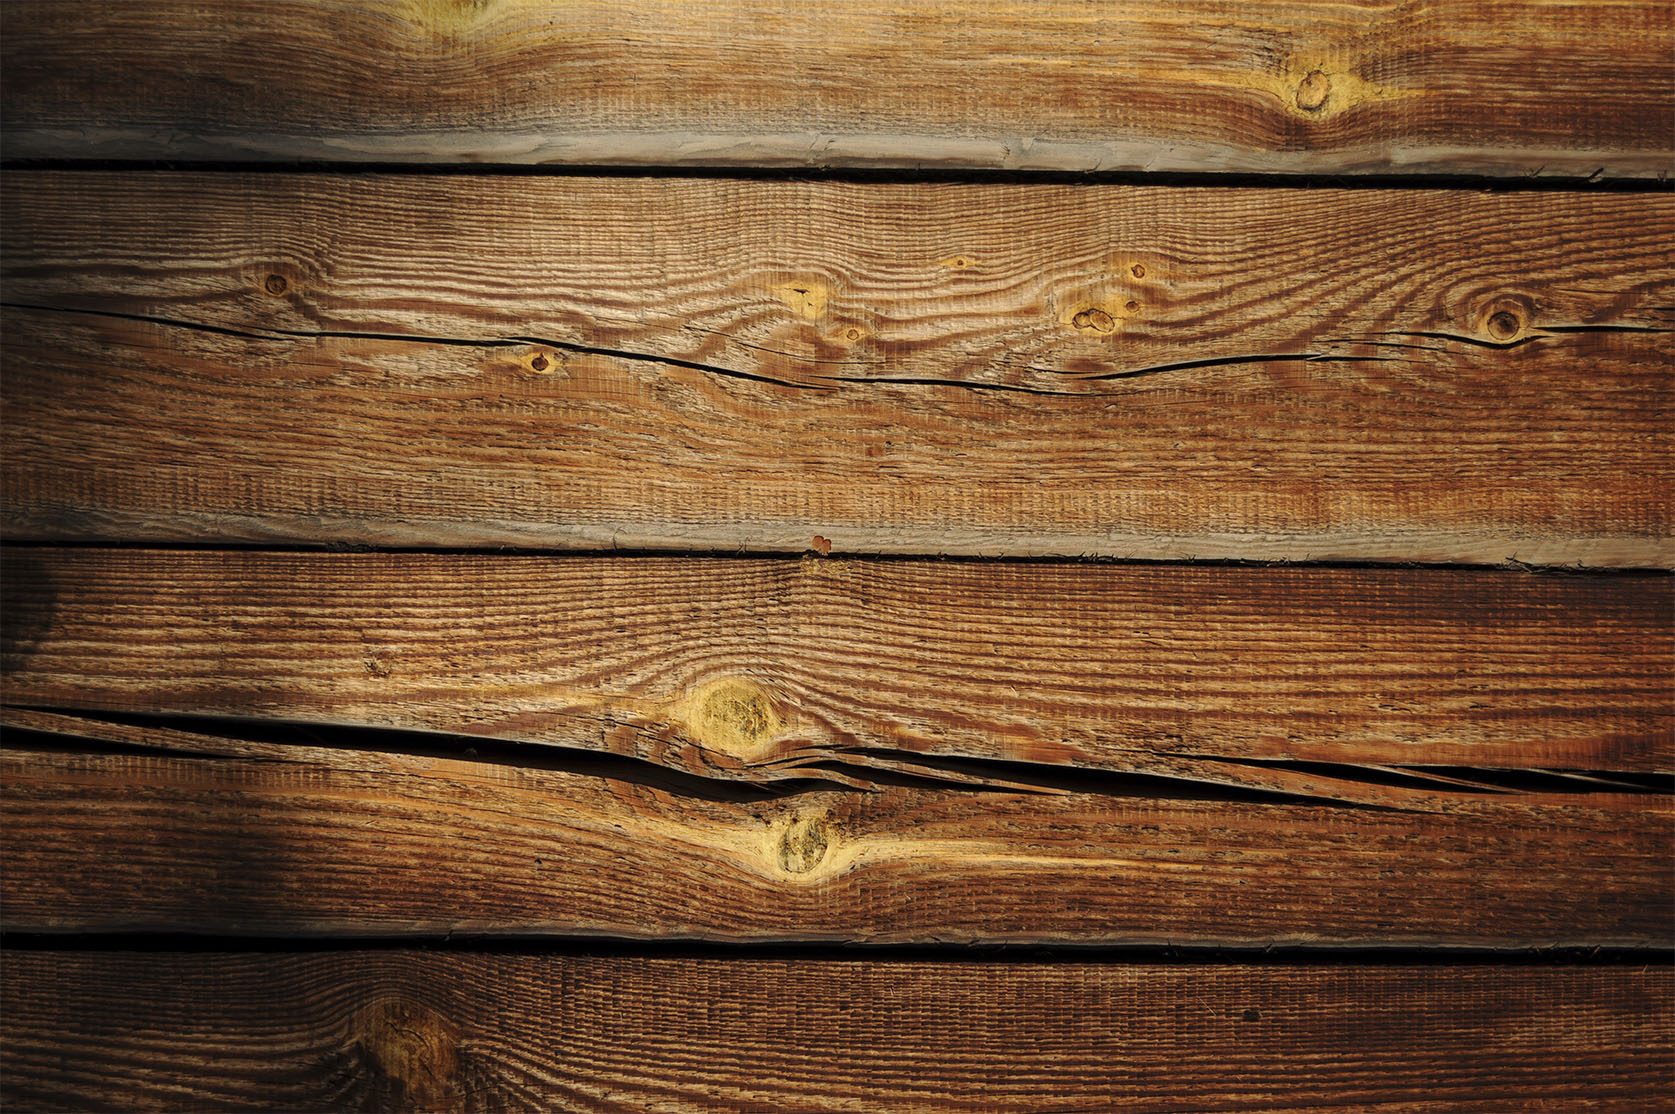
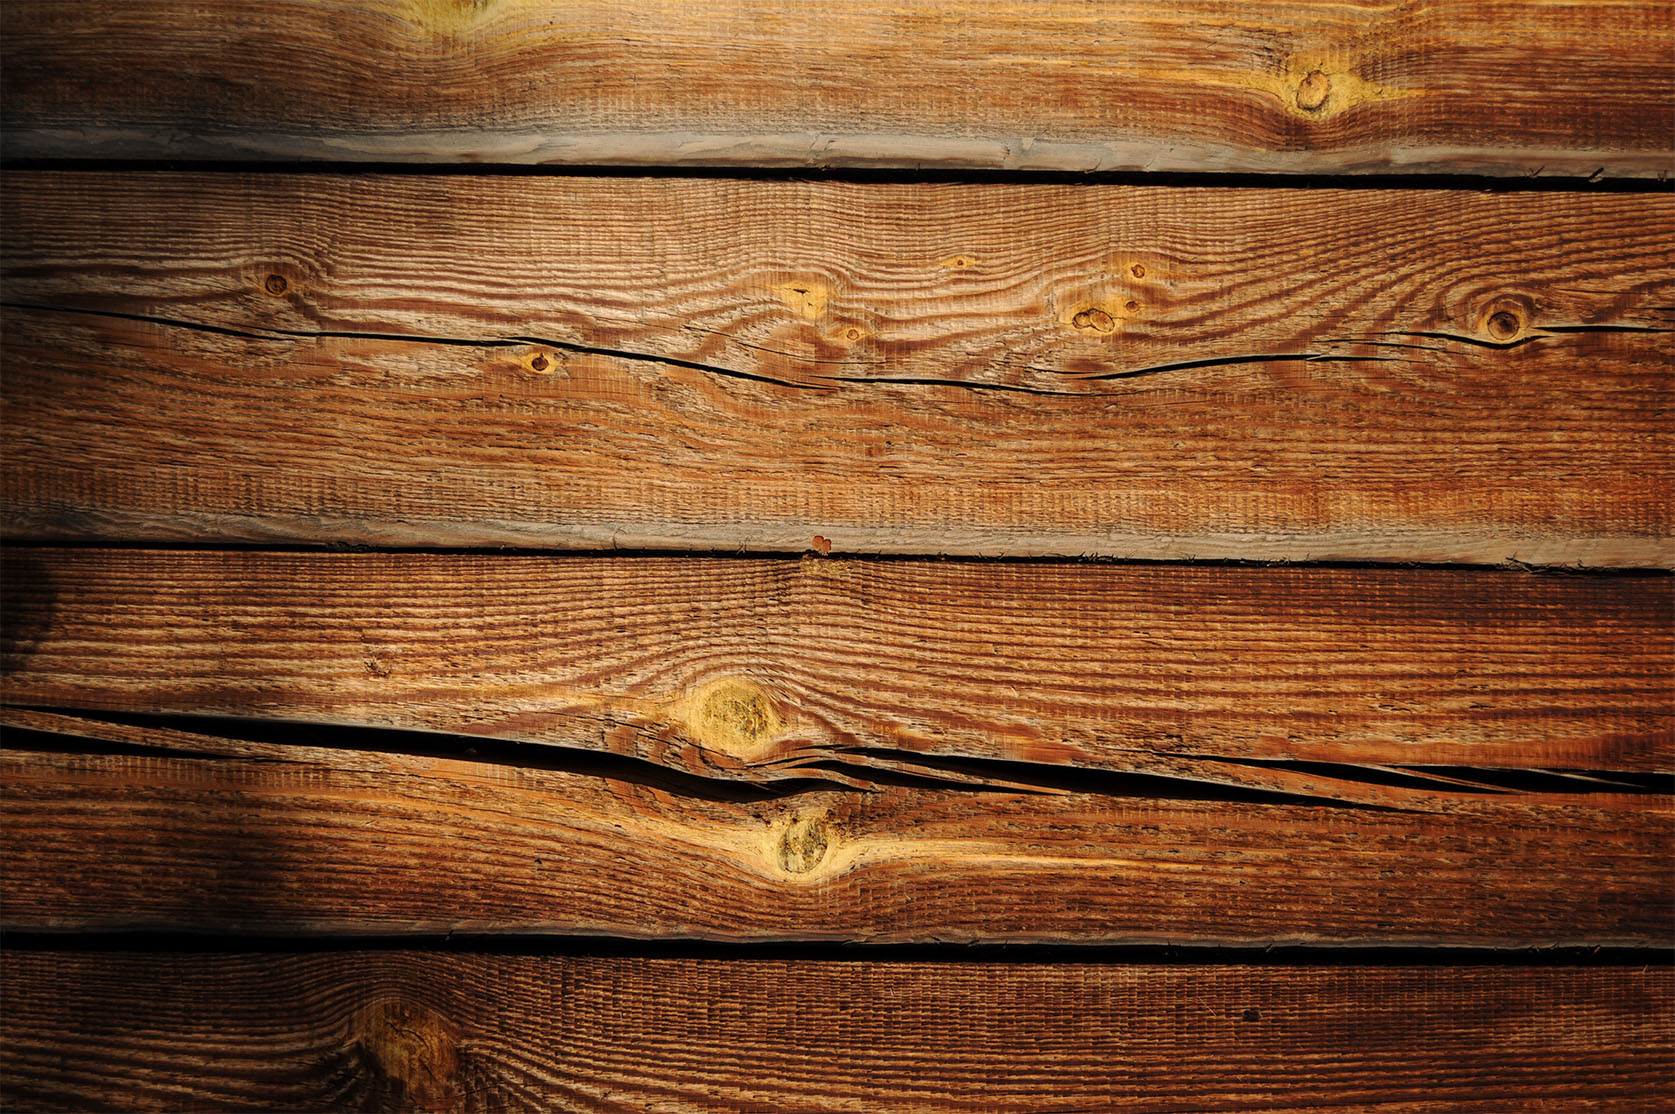
changed as in new maket

diff --git a/studio.html b/studio.html
@@ -6,21 +6,19 @@
 	<link rel="stylesheet" href="src/css/studio.css">
 </head>
 <body>
+	<div class="pliers"></div>
+	<div class="paper"></div>
 	<header>
-		<div class="container"></div>
-		<div class="wrapper">
-			<div class="circle">
-				<div class="dot1"></div>
-				<h1>Мастерская</h1>
-				<div class="dot2"></div>
-			</div>
+		<div class="container">
+			<div class="circle"></div>
+			<a href="index.html"><div class="arrow"></div></a>
 		</div>
 	</header>
 	<div class="main">
 		<div class="block1">
 			<img src="src/img/post1.jpg" alt="post">
 			<h2>Заголовок</h2>
-			<p>Когда пыльно by Doshka.#doshka  #doshkadrums #сajon #percussion  #beat #drum #music #barchimes #кахон #маракас #акустика #перкуссия #барабан #барчаймс #музыка #madeinukraine #трудовыебудни #shaker #shakers #шейкер DOSHKA – украинский производитель перкуссий, который предлагает первоклассную продукцию по доступной цене.Производство наших перкуссий – ручная, авторская работа. На всех этапах производства используются высококачественные  материалы и музыкальный подход, чтобы при игре на перкуссии DOSHKA вы ощущали всю гармонию звука. Товары, представленные на нашем сайте http://www.doshka-drums.com.ua/ – это постоянно увеличивающийся ассортимент, вы всегда сможете подобрать инструмен по звучанию и эргономике . Мы с радостью будем прислушиваться к вашим пожеланиям и нуждам – если какого-либо перкуссионного инструмента нет в наличии или вообще в ассортименте – смело обращайтесь к нам, и мы обсудим варианты его изготовления под заказ. Также мы оказываем услугу брендирование наших товаров вашим логотипом или названием группы. На некоторые инструменты мы предоставляем полное гарантийное обслуживание сроком на год с момента приобретения товара, а также с радостью поможем решить вопросы с пост-гарантийным обслуживанием.
+			<p>DOSHKA – украинский производитель перкуссий, который предлагает первоклассную продукцию по доступной цене.Производство наших перкуссий – ручная, авторская работа. На всех этапах производства используются высококачественные  материалы и музыкальный подход, чтобы при игре на перкуссии DOSHKA вы ощущали всю гармонию звука. Товары, представленные на нашем сайте http://www.doshka-drums.com.ua/ – это постоянно увеличивающийся ассортимент, вы всегда сможете подобрать инструмен по звучанию и эргономике . Мы с радостью будем прислушиваться к вашим пожеланиям и нуждам – если какого-либо перкуссионного инструмента нет в наличии или вообще в ассортименте – смело обращайтесь к нам, и мы обсудим варианты его изготовления под заказ. Также мы оказываем услугу брендирование наших товаров вашим логотипом или названием группы. 
 			<br /><br />
 			DOSHKA – это не просто перкуссия, это сама музыка!</p>
 			<a href="#">Читать</a>

diff --git a/src/css/studio.css b/src/css/studio.css
@@ -1,65 +1,62 @@
 body {
 	margin: 0;
 	background: url("../../src/img/doshka.jpg") no-repeat;
-	width: 1675px;
+	background-position: top;
 }
-
+.pliers {
+	background: url(../../src/img/sprite-studio.png) no-repeat -595px -1px;
+	height: 417px;
+	width: 448px;
+	float: left;
+	margin-top: -420px;
+    margin-left: 220px;
+}
+.paper {
+	background: url(../../src/img/sprite-studio.png) no-repeat -5px -373px;
+	height: 434px;
+	width: 521px;
+	float: right;
+	margin-top: -517px;
+	margin-right: 65px;
+}
 .container{
 	width: 100%;
-	min-height: 74px;
+	height: 74px;
 	background: #1d120b;
+	margin: 150px 0 110px;
 	opacity: 0.7;
 	border-top: #d9cbb9 4px solid;
 	border-bottom: #d9cbb9 4px solid;
-	margin-top: 150px;
-}
-.wrapper {
-	margin: 0 auto;
 }
 .circle {
-	background: url(../../src/img/studio-sprite.png) no-repeat -76px -1px;
+	background: url(../../src/img/sprite-studio.png) no-repeat -1px -1px;
 	width: 245px;
 	height: 245px;
-	margin: -163px 782px 0px 782px;
-	position: relative;
-	transition: all 0.5s ease-out;
+	margin: 0 auto;
+    margin-top: -81px;
+	transition: all 0.2s ease-out;
 }
 .circle:hover {
 	transform: scale(1.1);
 }
-.dot1 {
-	background: url(../../src/img/studio-sprite.png) no-repeat 0px -9px;
-	width: 26px;
-	height: 26px;
-	position: absolute;
-    top: 36px;
-    left: 109.5px;
+.circle:active {
+	transform: scale(1);
 }
-.dot2 {
-	background: url(../../src/img/studio-sprite.png) no-repeat 0px -9px;
-	width: 26px;
-	height: 26px;
-	position: absolute;
-    bottom: 36px;
-    left: 109.5px;
-}
-.circle h1 {
-	font-family: Arial;
-	color: #fefefe;
-	font-size: 30px;
-	text-transform: uppercase;
-	margin: 0;
-	padding-top: 108px;
-    text-align: center;
-	padding-top: 105px;
+.arrow {
+	background: url(../../src/img/sprite-studio.png) no-repeat -291px -14px;
+	width: 62px;
+	height: 74px;
+	float: right;
+	margin-top: -161px;
+	margin-right: 287px;
 }
 .main {
-	width: 1050px;
-	margin-left: 217px;
+	margin: 0 auto;
+	width: 1234px;
 	margin-top: 29px;
 }
 .block1 {
-	height: 280px;
+	min-height: 280px;
 	background: #1d120b;
 	opacity: 0.7;
 	border: #d9cbb9 4px solid;
@@ -68,32 +65,35 @@ body {
 .block1 img {
 	float: left;
 }
-.block1 h2, p, a {
+.block1 h2, p {
 	font-family: Arial;
 	color: #fefefe;
-}
-.block1 h2, a {
-	border: #fefefe 4px solid;
-	text-transform: uppercase;
-	text-align: center;
-	font-size: 18px;
 }
 .block1 h2 {
 	height: 26px;
 	width: 290px;
 	padding-top: 8px;
-	margin: 34px 0 0 530px;
+	margin: 10px 0 0 530px;
+	border: #fefefe 4px solid;
+	text-transform: uppercase;
+	text-align: center;
+	font-size: 18px;
 }
 .block1 p {
-	font-size: 10px;
-	line-height: 14px;
+	font-size: 14px;
+	line-height: 19px;
 	margin: 12px 0px 0px 312px;
 }
 .block1 a {
 	display: block;
 	width: 118px;
 	height: 20px;
+	border: #fefefe 4px solid;
+	text-transform: uppercase;
+	text-align: center;
+	font-size: 18px;
 	font-weight: bold;
+	color: #fefefe;
 	margin: 0px 0px 11px 852px;
 	text-decoration: none;
 }
